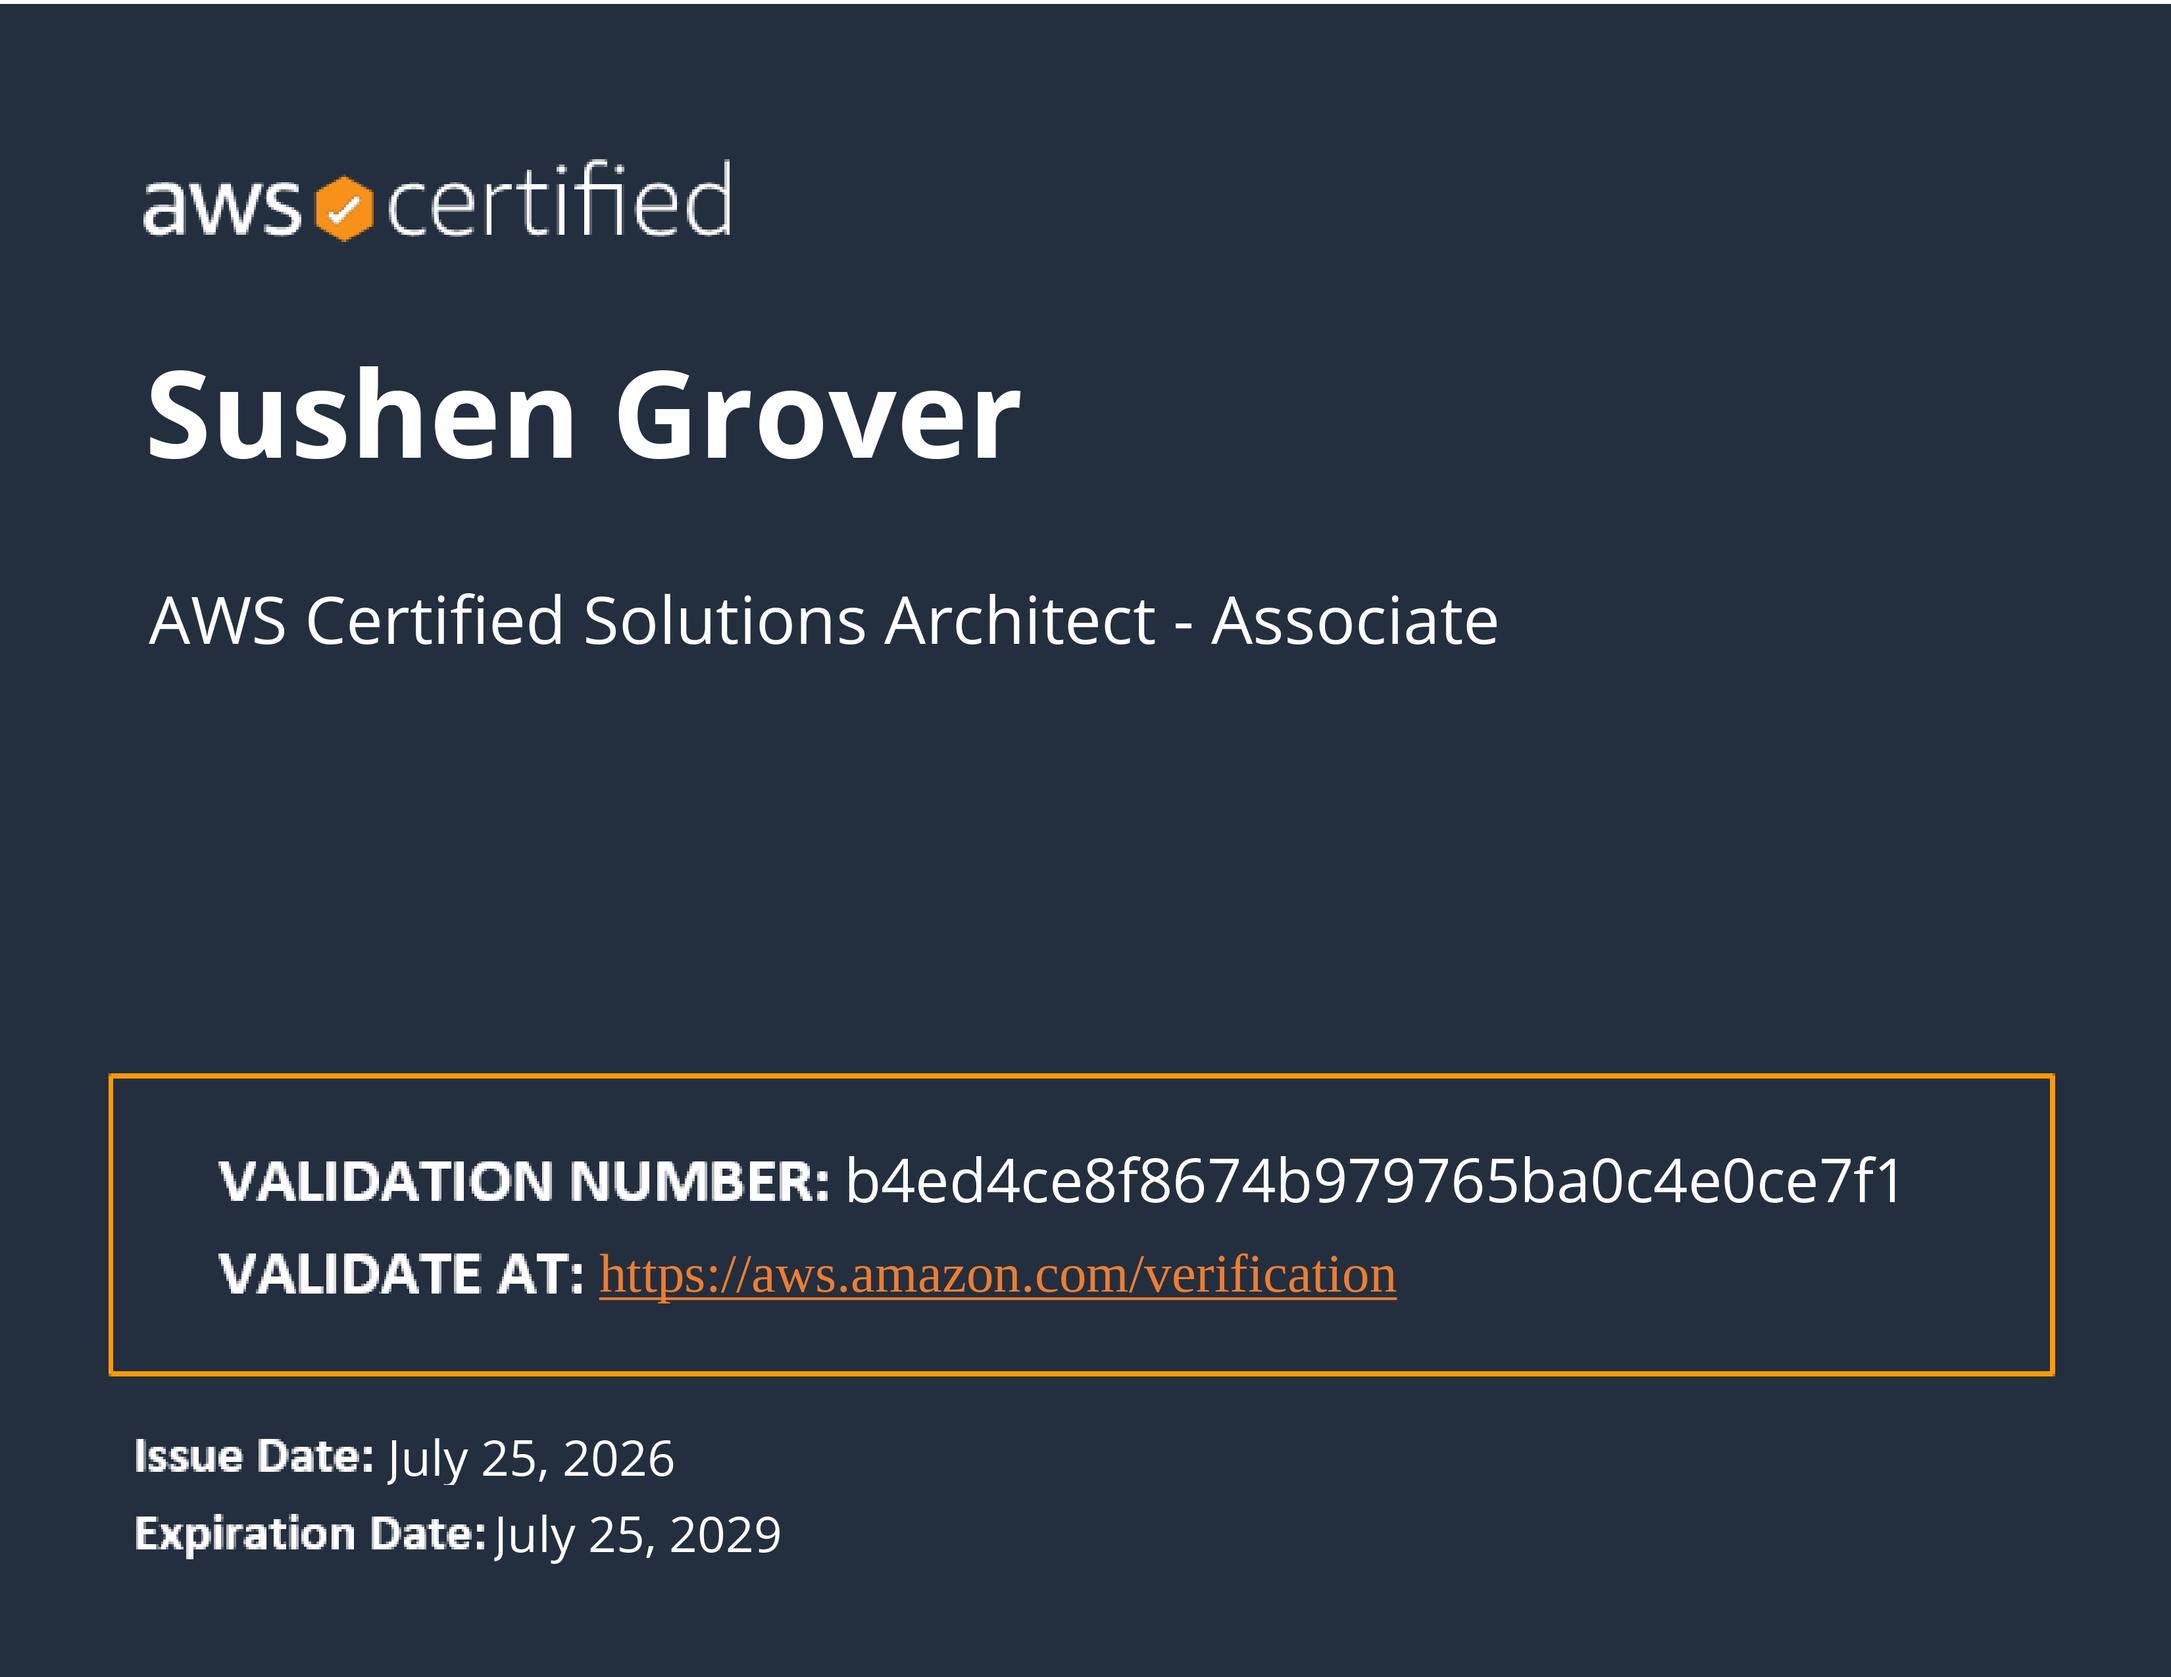
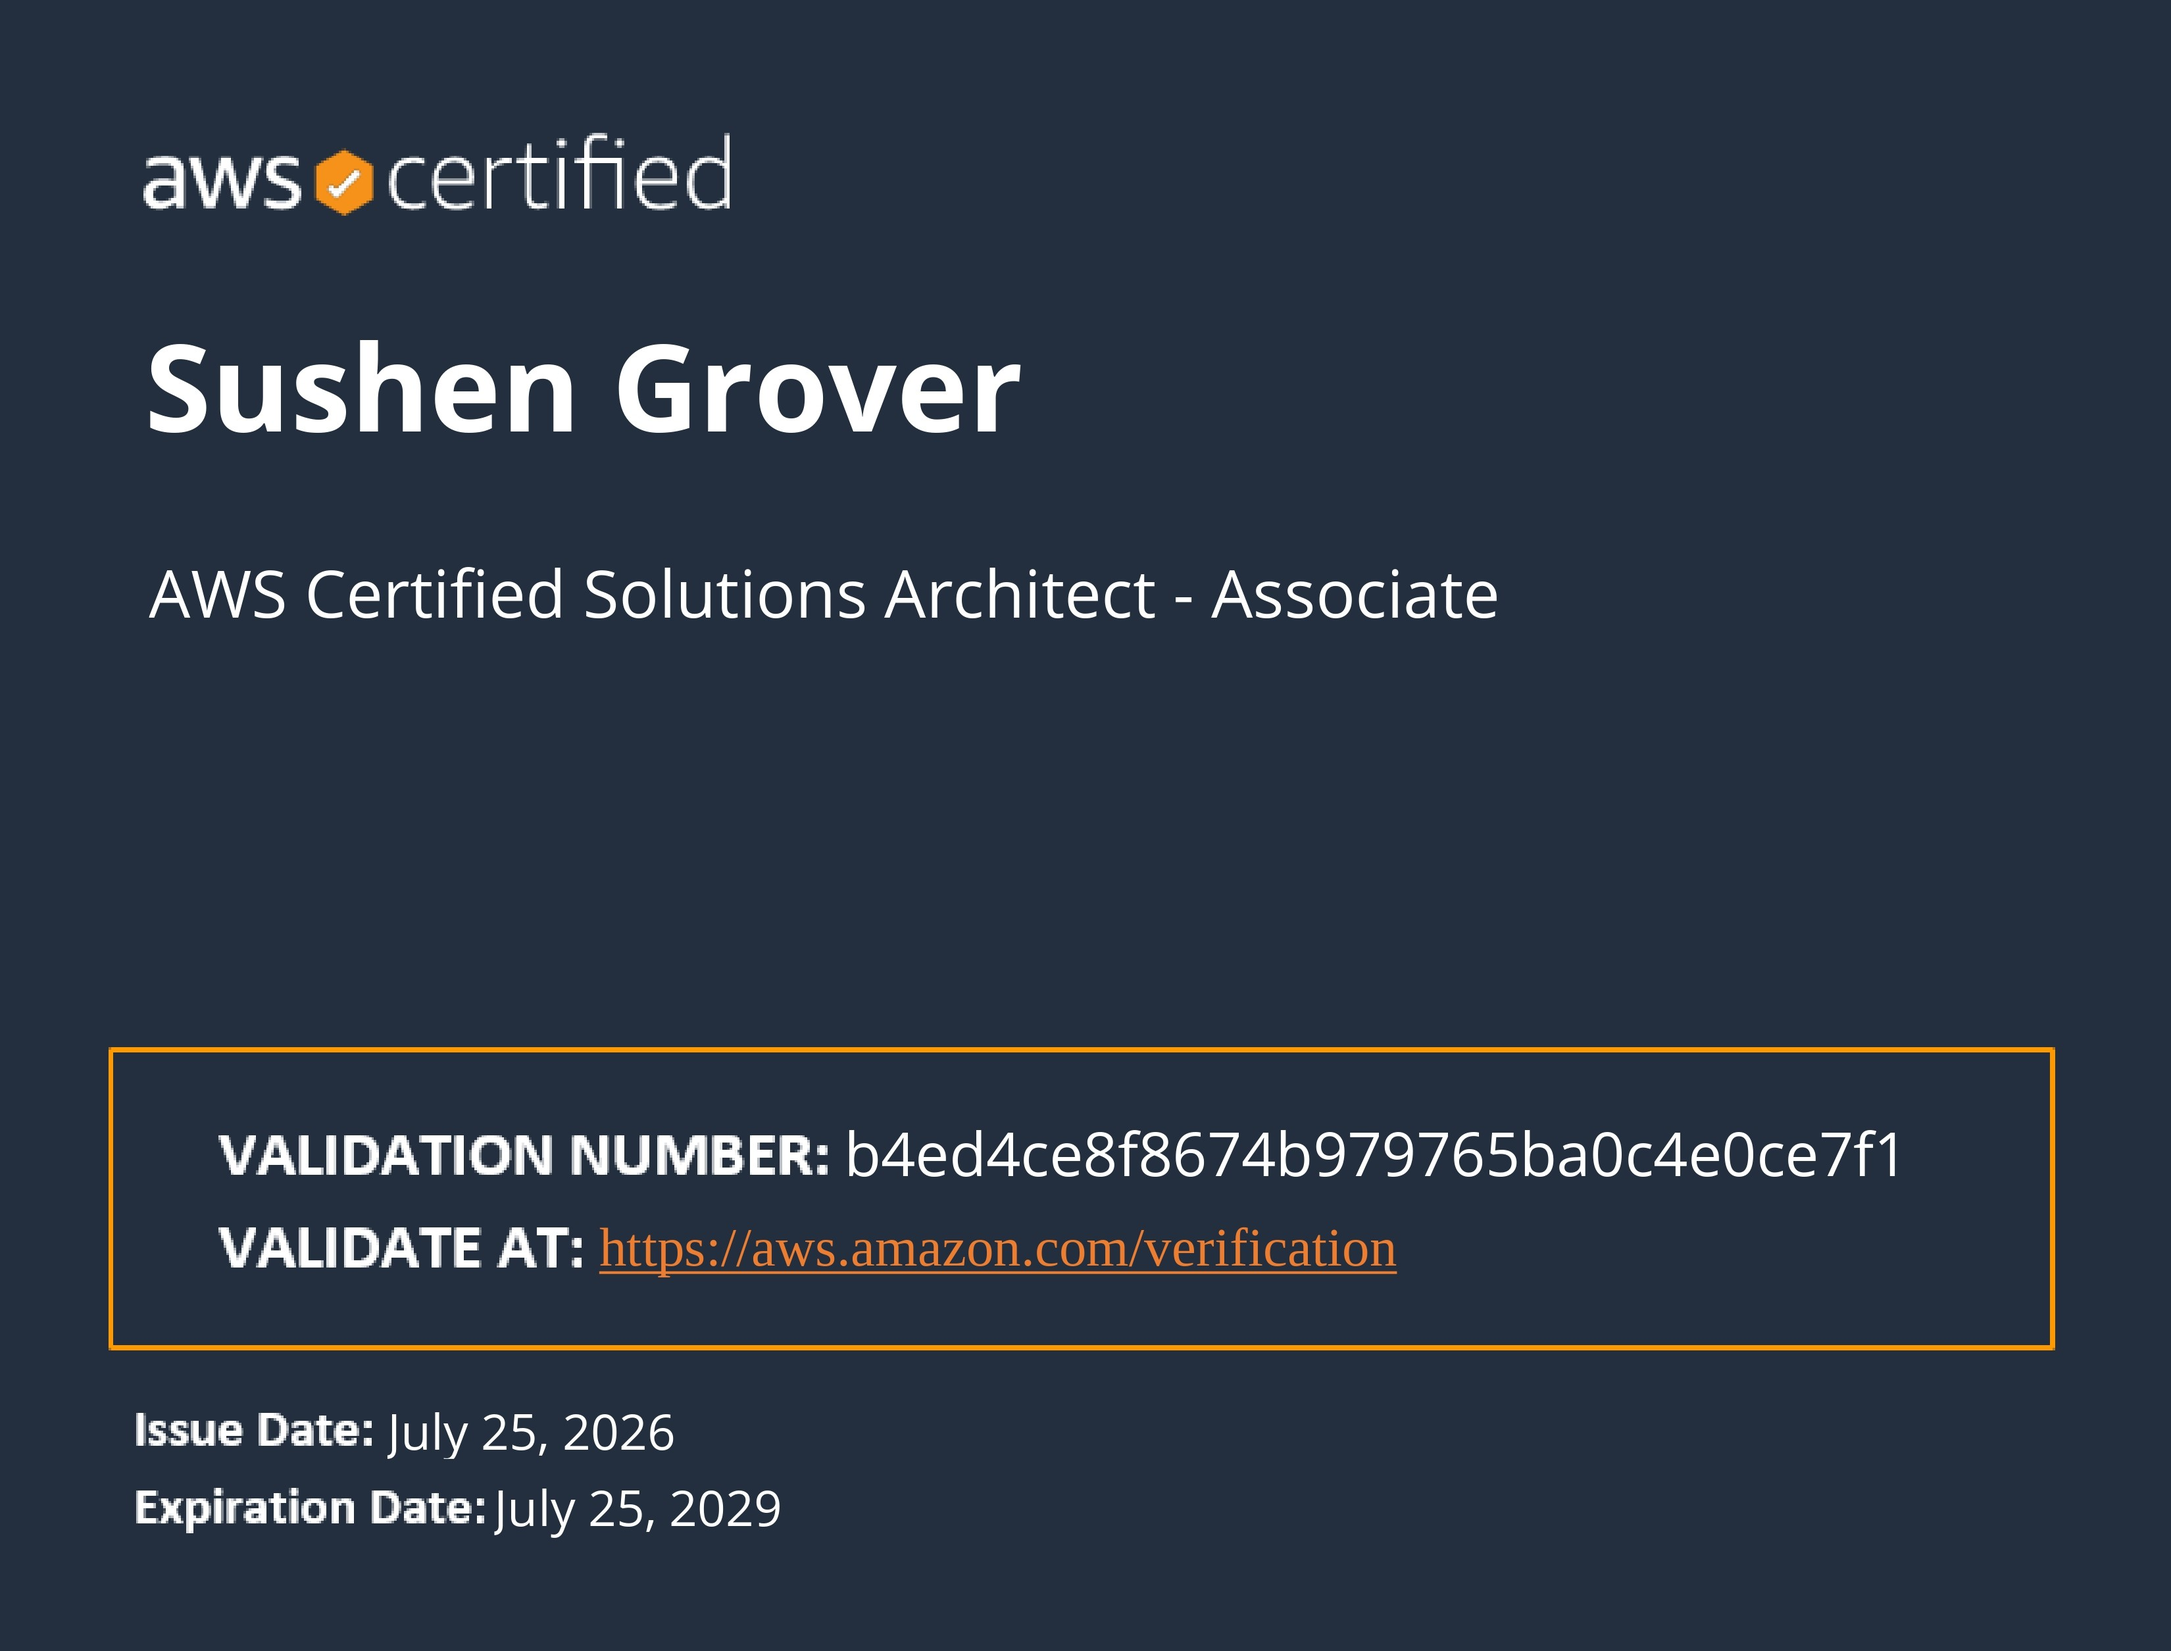
Updated IDFC thing and experience tab

diff --git a/frontend/src/components/ExperienceData.js b/frontend/src/components/ExperienceData.js
@@ -3,12 +3,12 @@
 export const experiences = [
   {
     id: 1,
-    role: "Research Intern",
-    company: "VIT University",
+    role: "Summer Research Intern",
+    company: "VIT University (SRIP)",
     companyLogo: "/internship_images/vit_logo.png",
-    location: "Remote",
+    location: "Chennai, Tamil Nadu",
     startDate: "May 2026",
-    endDate: "Present",
+    endDate: "Jul 2026",
     description:
       "Working under <b>Dr. Janaki Meena</b> on the design and development of <b>HybridRAG architectures</b>, exploring advanced retrieval techniques including <b>GraphRAG, VectorRAG, reranking, query decomposition, and RAG fusion</b> to enhance knowledge retrieval and response generation.<br />Evaluated system performance using the <b>RAGAS</b> framework across <b>Faithfulness, Answer Relevancy, Context Precision, and Context Recall</b> metrics.",
     skills: [
@@ -22,7 +22,7 @@ export const experiences = [
       "Ragas",
       "Cross Encoder",
     ],
-    certificate: "",
+    certificate: "internship_images/SRIP_certificate.jpg",
   },
   {
     id: 2,
@@ -31,7 +31,7 @@ export const experiences = [
     companyLogo: "/internship_images/collegedunia_logo.png",
     location: "Remote",
     startDate: "May 2026",
-    endDate: "Present",
+    endDate: "Jun 2026",
     description:
       "Built code implementations for questions featured in <b>national-level examinations</b>, enabling the creation of <b>accurate and scalable educational content</b> published on official website of CollegeDunia.<br />Leveraged <b>Python, regular expressions, prompt engineering, and web scraping</b> to improve data processing workflows.",
     skills: [
@@ -43,7 +43,7 @@ export const experiences = [
       "Web Scraping",
       "Data Engineering",
     ],
-    certificate: "",
+    certificate: "internship_images/collegedunia_certificate.jpg",
   },
   {
     id: 4,

diff --git a/frontend/src/components/Footer.jsx b/frontend/src/components/Footer.jsx
@@ -3,6 +3,7 @@ import { FontAwesomeIcon } from "@fortawesome/react-fontawesome";
 import { faPhone, faEnvelope, faCode } from "@fortawesome/free-solid-svg-icons";
 import {
   faGithub,
+  faInstagram,
   faLinkedin,
 } from "@fortawesome/free-brands-svg-icons";
 
@@ -22,11 +23,11 @@ export default function Footer() {
           {/* Contact Buttons */}
           <div className="flex flex-wrap justify-center gap-4 text-white">
             {[
-              // {
-              //   href: "tel:+917009367016",
-              //   icon: faPhone,
-              //   label: "+91 70093 67016",
-              // },
+              {
+                href: "tel:+917009367016",
+                icon: faPhone,
+                label: "+91 70093 67016",
+              },
               {
                 href: "mailto:groversushen@gmail.com",
                 icon: faEnvelope,
@@ -42,6 +43,11 @@ export default function Footer() {
                 icon: faLinkedin,
                 label: "LinkedIn",
               },
+              // {
+              //   href: "https://www.instagram.com/sushen.grover/",
+              //   icon: faInstagram,
+              //   label: "Instagram",
+              // },
               {
                 href: "https://codolio.com/profile/SushenGrover",
                 icon: faCode,

diff --git a/frontend/src/pages/Home.jsx b/frontend/src/pages/Home.jsx
@@ -177,7 +177,7 @@ export default function Home() {
                       <span className="text-cyan-400">— PDF Preview</span>
                     </h3>
                     <a
-                      href="https://sushengrover.onrender.com/SushenGrover_Resume.pdf"
+                      href="https://sushengrover.in/SushenGrover_Resume.pdf"
                       target="_blank"
                       rel="noopener noreferrer"
                       className="mr-7 bg-cyan-600 hover:bg-cyan-500 text-white text-sm font-semibold py-2 px-4 rounded-lg"
